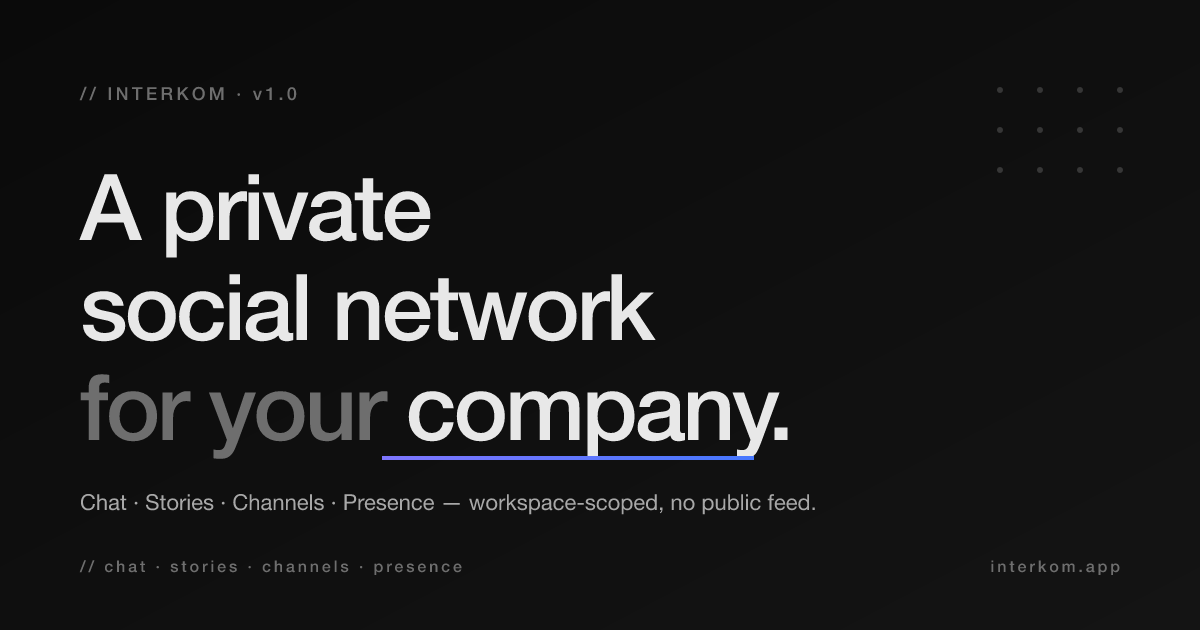
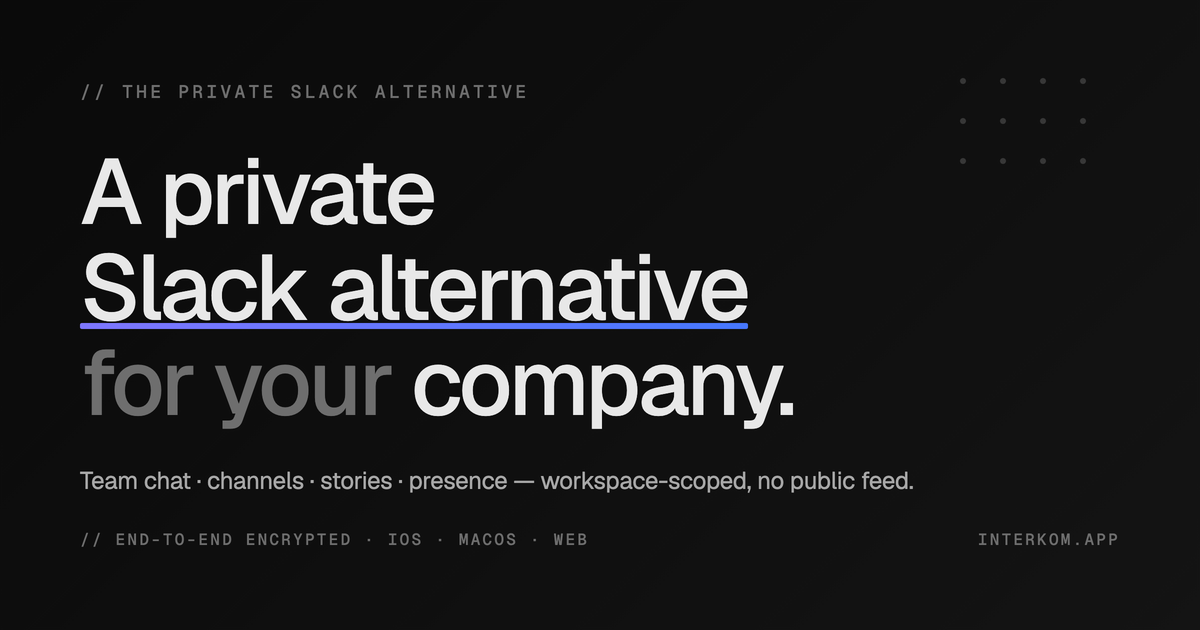
homepage: regenerate OG card + fix /privacy soft-404 + SEO polish
- Regenerate og-image.png (1200x630) on-brand with the "Slack
  alternative" positioning and a gradient underline under the keyword;
  update og-image.svg source to match.
- Fix /privacy soft-404: it was served via the 404.html SPA fallback
  (HTTP 404), so it was in the sitemap but unindexable. Emit a real
  dist/privacy/index.html at build so it returns 200; it self-canonicals
  to /privacy and renders the policy after hydration.
- Switch Vite base from './' to '/' so assets resolve from root at any
  path depth (custom domain at root) — required for the /privacy deep
  link and 404.html fallback to boot their JS.
- Add lastmod to sitemap.xml.

Verified headless: homepage hydrates clean, /privacy renders with correct
canonical/title, no page errors.

diff --git a/vite.config.ts b/vite.config.ts
@@ -2,9 +2,12 @@ import { defineConfig } from 'vite'
 import react from '@vitejs/plugin-react'
 import tailwindcss from '@tailwindcss/vite'
 
-// Using relative base so the build works under any GitHub Pages path
-// (both username.github.io and username.github.io/repo-name).
+// Absolute base: the site is served from the root of a custom domain
+// (interkom.app), and deep-link entry points (404.html SPA fallback and
+// the pre-rendered /privacy/index.html) need assets to resolve from "/"
+// regardless of the request path depth — relative "./assets" would break
+// at /privacy/.
 export default defineConfig({
-  base: './',
+  base: '/',
   plugins: [react(), tailwindcss()],
 })